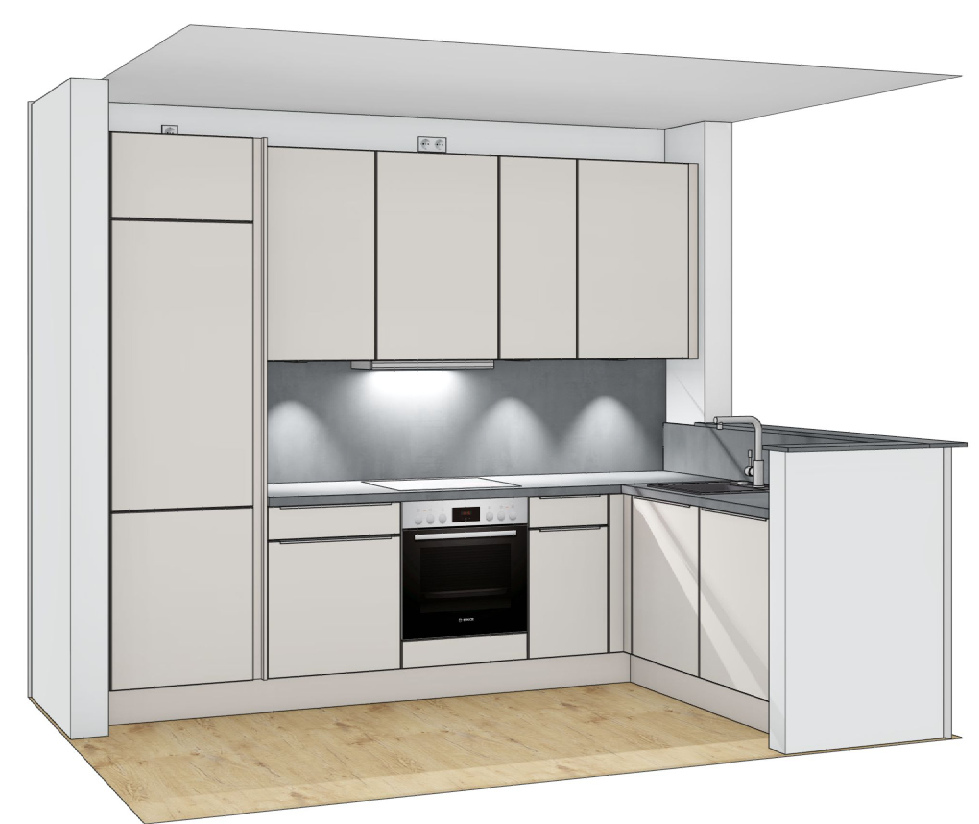
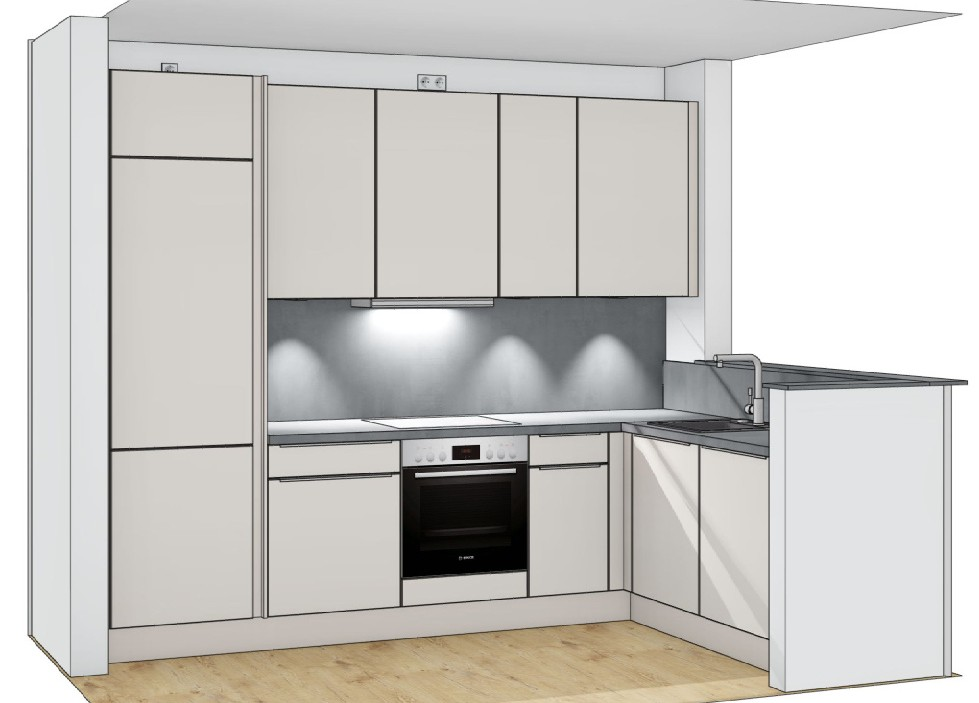
FIXES

diff --git a/frontend/prisma/seed.js b/frontend/prisma/seed.js
@@ -1914,11 +1914,11 @@ const AB_110140_ITEMS = [
 const AB_110510_ITEMS = [
   defaultOvenHob({ catalogArticleNumber: "A-EH923640E + 9EC744100C", infoText: "Built-in oven + ceramic cooktop", sortOrder: 10, widthMm: 600 }),
   defaultWorktop({ sortOrder: 20 }),
-  defaultSinkBase({ code: "SINK-BASE-AB110510-DEFAULT", componentKey: "sink-base", sortOrder: 30, widthMm: 400, depthMm: 600 }),
+  defaultSinkBase({ code: "SINK-BASE-AB110510-DEFAULT", name: "Sink Lower Cabinet", nameDe: "Spülenunterschrank", componentKey: "sink-base", sortOrder: 30, widthMm: 1100, heightMm: 878, depthMm: 600, articleNumber: "SPEB110", infoText: "Included SPEB110 sink cabinet" }),
   { itemType: ItemType.COMPONENT, code: "REF-AB110510-KGCN388140E", name: REFRIGERATOR_CATALOG_NAME_EN, nameDe: REFRIGERATOR_CATALOG_NAME_DE, price: "579.00", heightMm: 1810, iconKey: "tall_refrigerator", colorKey: "black", componentKey: "refrigerator", sortOrder: 40, infoText: "Fridge-freezer, 181 cm", articleNumber: "OL-KGCN388140E" },
-  { itemType: ItemType.COMPONENT, code: "CAB-BASE-AB110510-DEFAULT-LEFT", name: "Included base cabinet", nameDe: "Inklusiver Unterschrank", price: "0.00", widthMm: 450, depthMm: 600, iconKey: "drawer_base_two", colorKey: "#f0a500", componentKey: "base-module-1", sortOrder: 50, isLocked: true, infoText: "Included with the default kitchen configuration" },
-  { itemType: ItemType.COMPONENT, code: "CAB-BASE-AB110510-DEFAULT-CORNER", name: "Included base cabinet", nameDe: "Inklusiver Unterschrank", price: blendePrice("UPEF65", 1), widthMm: 400, depthMm: 600, iconKey: "drawer_base_two", colorKey: "#ffbf00", componentKey: "base-module-2", sortOrder: 60, isLocked: true, infoText: "Included cabinet with UPEF65 corner filler panel", blendeCode: "UPEF65", blendeLabel: "UPEF65 Corner filler panel", blendePrice: blendePrice("UPEF65", 1) },
-  { itemType: ItemType.COMPONENT, code: "CAB-BASE-AB110510-DEFAULT-SINK-RUN", name: "Included base cabinet", nameDe: "Inklusiver Unterschrank", price: blendePrice("UPK20", 1), widthMm: 400, depthMm: 600, iconKey: "drawer_base_two", colorKey: "#f0a500", componentKey: "base-module-3", sortOrder: 70, isLocked: true, infoText: "Included cabinet with UPK20 filler panel", blendeCode: "UPK20", blendeLabel: "UPK20 20 cm", blendePrice: blendePrice("UPK20", 1) },
+  { itemType: ItemType.COMPONENT, code: "CAB-BASE-AB110510-DEFAULT-LEFT", name: "Lower Cabinet 40 cm", nameDe: "Unterschrank 40 cm", price: "0.00", widthMm: 400, heightMm: 878, depthMm: 600, iconKey: "base_cabinet_plain", colorKey: "#f0a500", componentKey: "base-module-1", sortOrder: 50, isLocked: true, infoText: "Included U40 lower cabinet to the left of the oven", articleNumber: "U40", useCatalogArticle: false, preserveName: true },
+  { itemType: ItemType.COMPONENT, code: "CAB-BASE-AB110510-DEFAULT-CORNER", name: "Lower Cabinet 45 cm", nameDe: "Unterschrank 45 cm", price: blendePrice("UPEF65", 1), widthMm: 450, heightMm: 878, depthMm: 600, iconKey: "base_cabinet_plain", colorKey: "#ffbf00", componentKey: "base-module-2", sortOrder: 60, isLocked: true, infoText: "Included U45 lower cabinet with UPEF65 corner filler panel", articleNumber: "U45", useCatalogArticle: false, preserveName: true, blendeCode: "UPEF65", blendeLabel: "UPEF65 Corner filler panel", blendePrice: blendePrice("UPEF65", 1) },
+  { itemType: ItemType.COMPONENT, code: "CAB-BASE-AB110510-DEFAULT-SINK-RUN", name: "Lower Cabinet with Drawer 50 cm", nameDe: "Unterschrank mit Schublade 50 cm", price: blendePrice("UPK20", 1), widthMm: 500, heightMm: 878, depthMm: 600, iconKey: "drawer_base_two", colorKey: "#f0a500", componentKey: "base-module-3", sortOrder: 70, isLocked: true, infoText: "Included US50 lower cabinet with drawer and UPK20 filler panel", articleNumber: "US50", preserveName: true, blendeCode: "UPK20", blendeLabel: "UPK20 20 cm", blendePrice: blendePrice("UPK20", 1) },
   { itemType: ItemType.COMPONENT, code: "CAB-WALL-AB110510-H4502", name: "Wall Cabinet", nameDe: "Oberschrank", price: "139.00", widthMm: 450, heightMm: 720, depthMm: 340, iconKey: "wall_cabinet_plain", colorKey: "#00ffbf", componentKey: "wall-cabinet-1", sortOrder: 80, infoText: "H4502 wall cabinet, 45 cm", articleNumber: "H4502" },
   { itemType: ItemType.COMPONENT, code: "CAB-HOOD-AB110510-600", name: HOOD_WALL_CABINET_CATALOG_NAME_EN, nameDe: HOOD_WALL_CABINET_CATALOG_NAME_DE, price: "349.00", widthMm: 600, heightMm: 720, depthMm: 340, iconKey: "hood_wall_cabinet", colorKey: "#394c00", componentKey: "wall-cabinet-2", sortOrder: 90, infoText: "HD6002 cabinet, flat pull-out hood and FWK124 filter", articleNumber: "FH664621E + FWK124 + HD6002" },
   { itemType: ItemType.COMPONENT, code: "HOOD-AB110510-FH664621E", name: "FH664621E Extractor Hood", price: "349.00", widthMm: 599, heightMm: 173, depthMm: 303, iconKey: "extractor_hood", colorKey: "#394c00", componentKey: "extractor-hood", sortOrder: 92, infoText: "Flat pull-out hood + cabinet + filter, 60 cm", articleNumber: "FH664621E + FWK124 + HD6002", isActive: false },
@@ -2006,7 +2006,7 @@ const AB_105815_ITEMS = AB_105811_ITEMS.map((item) => ({
 // Supplier schedule codes are retained for display while catalogArticleNumber links
 // each row to the shared catalog identity used by the Burger program price list.
 const BURGER_103898_ITEMS = [
-  defaultOvenHob({ sortOrder: 10 }),
+  defaultOvenHob({ catalogArticleNumber: "A-EH923640E + 9EC744100C", infoText: "Built-in oven + ceramic cooktop", sortOrder: 10, widthMm: 600 }),
   defaultWorktop({ sortOrder: 20 }),
   { itemType: ItemType.COMPONENT, code: "SINK-BASE-BURGER103898-600", name: DEFAULT_SINK_BASE_CATALOG_NAME_EN, nameDe: DEFAULT_SINK_BASE_CATALOG_NAME_DE, price: "0.00", widthMm: 600, iconKey: "sink_base", colorKey: "springgreen", componentKey: "sink-base", sortOrder: 30, isLocked: true, infoText: DEFAULT_SINK_BASE_CATALOG_INFO_TEXT },
   { itemType: ItemType.COMPONENT, code: "REF-BURGER103898-KGCN388140E", name: REFRIGERATOR_CATALOG_NAME_EN, nameDe: REFRIGERATOR_CATALOG_NAME_DE, price: "579.00", heightMm: 1810, iconKey: "tall_refrigerator", colorKey: "black", componentKey: "refrigerator", sortOrder: 40, infoText: "Fridge-freezer, 181 cm", articleNumber: "OL-KGCN388140E" },
@@ -3448,11 +3448,13 @@ async function main() {
       const item = applyDefaultCatalogItem(rawItem);
       seededItemCodes.push(item.code);
       const itemCode = String(item.code || "").trim().toUpperCase();
-      const catalogArticleNumber = item.catalogArticleNumber || (item.isActive === false
-        && itemCode.startsWith("HOOD-")
-        && String(item.articleNumber || "").trim() === "FH 664 621 E"
-          ? "FH664621E + FWK124 + HD6002"
-          : String(item.articleNumber || "").trim());
+      const catalogArticleNumber = item.useCatalogArticle === false
+        ? ""
+        : item.catalogArticleNumber || (item.isActive === false
+          && itemCode.startsWith("HOOD-")
+          && String(item.articleNumber || "").trim() === "FH 664 621 E"
+            ? "FH664621E + FWK124 + HD6002"
+            : String(item.articleNumber || "").trim());
       const catalogArticle = catalogArticleNumber
         ? catalogArticleByNumber.get(catalogArticleNumber)
         : null;
@@ -3480,8 +3482,8 @@ async function main() {
       const resolvedHeightMm = pickCatalogDimension(catalogDims?.heightMm, item.heightMm);
       const resolvedDepthMm = pickCatalogDimension(catalogDims?.depthMm, item.depthMm);
       const itemForName = { ...item, widthMm: resolvedWidthMm };
-      const cabinetWidthName = getCabinetWidthDisplayName(itemForName);
-      const cabinetWidthNameDe = getCabinetWidthDisplayName(itemForName, "de");
+      const cabinetWidthName = item.preserveName ? "" : getCabinetWidthDisplayName(itemForName);
+      const cabinetWidthNameDe = item.preserveName ? "" : getCabinetWidthDisplayName(itemForName, "de");
       const isDishwasherItem = itemCode.startsWith("DISH-")
         || item.iconKey === "dishwasher_base";
       const isRefrigeratorItem = itemCode.startsWith("REF-")
@@ -3545,11 +3547,15 @@ async function main() {
           || catalogArticle?.articleNumber
           || (isStandaloneCatalogBlende ? catalogBlende?.code : item.articleNumber)
           || null,
-        name: catalogArticle?.name
-          || (isStandaloneCatalogBlende ? catalogBlende?.name : itemName),
-        nameDe: catalogArticle?.nameDe
-          || (isStandaloneCatalogBlende ? catalogBlende?.nameDe : itemNameDe)
-          || null,
+        name: item.preserveName
+          ? itemName
+          : catalogArticle?.name
+            || (isStandaloneCatalogBlende ? catalogBlende?.name : itemName),
+        nameDe: item.preserveName
+          ? itemNameDe
+          : catalogArticle?.nameDe
+            || (isStandaloneCatalogBlende ? catalogBlende?.nameDe : itemNameDe)
+            || null,
         price: isStandaloneCatalogBlende && catalogBlende ? catalogBlende.price : item.price,
         widthMm: resolvedWidthMm,
         heightMm: resolvedHeightMm,

diff --git a/frontend/test/ab-110510-kitchen.test.js b/frontend/test/ab-110510-kitchen.test.js
@@ -71,7 +71,47 @@ test("AB 110510 preserves six DEFAULT rows and the corrected Excel schedule", ()
   }
   assert.match(block, /CAB-BASE-AB110510-DEFAULT-CORNER[^\n]+blendeCode: "UPEF65"/);
   assert.match(block, /CAB-BASE-AB110510-DEFAULT-SINK-RUN[^\n]+blendeCode: "UPK20"/);
+  assert.match(block, /code: "SINK-BASE-AB110510-DEFAULT"[^\n]+name: "Sink Lower Cabinet"[^\n]+widthMm: 1100[^\n]+articleNumber: "SPEB110"/);
+  assert.match(block, /code: "CAB-BASE-AB110510-DEFAULT-LEFT"[^\n]+name: "Lower Cabinet 40 cm"[^\n]+widthMm: 400[^\n]+componentKey: "base-module-1"[^\n]+articleNumber: "U40"[^\n]+useCatalogArticle: false[^\n]+preserveName: true/);
+  assert.match(block, /code: "CAB-BASE-AB110510-DEFAULT-CORNER"[^\n]+name: "Lower Cabinet 45 cm"[^\n]+widthMm: 450[^\n]+componentKey: "base-module-2"[^\n]+articleNumber: "U45"[^\n]+useCatalogArticle: false[^\n]+preserveName: true[^\n]+blendeCode: "UPEF65"/);
+  assert.match(block, /code: "CAB-BASE-AB110510-DEFAULT-SINK-RUN"[^\n]+name: "Lower Cabinet with Drawer 50 cm"[^\n]+widthMm: 500[^\n]+componentKey: "base-module-3"[^\n]+articleNumber: "US50"[^\n]+preserveName: true[^\n]+blendeCode: "UPK20"/);
   assert.match(block, /CAB-WALL-AB110510-H6002-HPK2002[^\n]+articlePriceWithBlende\("H6002", "HPK2002", 1\)[^\n]+blendeCode: "HPK2002"/);
+});
+
+test("AB 110510 exposes SPEB110, U40, U45, and US50 in ASC", () => {
+  const items = [
+    { itemType: "COMPONENT", code: "SINK-BASE-AB110510-DEFAULT", name: "Sink Lower Cabinet", articleNumber: "SPEB110", componentKey: "sink-base", widthMm: 1100, isLocked: true },
+    { itemType: "COMPONENT", code: "CAB-BASE-AB110510-DEFAULT-LEFT", name: "Lower Cabinet 40 cm", articleNumber: "U40", componentKey: "base-module-1", widthMm: 400, isLocked: true },
+    { itemType: "COMPONENT", code: "CAB-BASE-AB110510-DEFAULT-CORNER", name: "Lower Cabinet 45 cm", articleNumber: "U45", componentKey: "base-module-2", widthMm: 450, isLocked: true, blendeCode: "UPEF65", blendeLabel: "UPEF65 Corner filler panel" },
+    { itemType: "COMPONENT", code: "CAB-BASE-AB110510-DEFAULT-SINK-RUN", name: "Lower Cabinet with Drawer 50 cm", articleNumber: "US50", componentKey: "base-module-3", widthMm: 500, isLocked: true, blendeCode: "UPK20", blendeLabel: "UPK20 20 cm" },
+  ];
+  const selection = buildServiceClaimSelectableComponents({
+    kitchen: { items },
+    kitchenConfig: { components: items },
+    kitchenSlug: slug,
+    claimParts: [{
+      partKey: "sink-cabinet",
+      name: "Sink Lower Cabinet",
+      articleCode: "SPEB110",
+      sourceKitchenItemCode: "SINK-BASE-AB110510-DEFAULT",
+      sourceComponentKey: "sink-base",
+    }],
+  });
+
+  const articleBySourceKey = Object.fromEntries(
+    selection.selectableComponents
+      .filter((entry) => (
+        entry.claimPartKey !== "blende"
+        && ["sink-base", "base-module-1", "base-module-2", "base-module-3"].includes(entry.sourceComponentKey || entry.componentKey)
+      ))
+      .map((entry) => [entry.sourceComponentKey || entry.componentKey, entry.articleCode]),
+  );
+  assert.deepEqual(articleBySourceKey, {
+    "sink-base": "SPEB110",
+    "base-module-1": "U40",
+    "base-module-2": "U45",
+    "base-module-3": "US50",
+  });
 });
 
 test("AB 110510 maps Excel callouts and links the complete hood package", () => {

diff --git a/frontend/test/burger-103898-kitchen.test.js b/frontend/test/burger-103898-kitchen.test.js
@@ -139,10 +139,22 @@ test("Burger 103898 seeds a separate Burger program kitchen and contract", () =>
     ),
     "utf8",
   );
+  const ovenMigration = readFileSync(
+    new URL(
+      "../prisma/migrations/20260910190000_link_burger103898_to_a_eh923640e/migration.sql",
+      import.meta.url,
+    ),
+    "utf8",
+  );
   assert.match(seed, /slug: "burger-103898"[\s\S]*?kitchenCode: "103 898"[\s\S]*?programmId: "BURGER CINDY"[\s\S]*?items: BURGER_103898_ITEMS/);
   assert.match(seed, /contractNumber: "670103898", kitchenSlug: "burger-103898"/);
   assert.match(seed, /contractNumber: "111103898", kitchenSlug: "burger-103898"/);
   assert.match(seed, /programmId: kitchen\.programmId \|\| DEFAULT_KITCHEN_PROGRAMM_ID/);
+  assert.match(seed, /const BURGER_103898_ITEMS = \[[\s\S]*?defaultOvenHob\(\{ catalogArticleNumber: "A-EH923640E \+ 9EC744100C"/);
+  assert.match(ovenMigration, /kitchen\."slug" = 'burger-103898'/);
+  assert.match(ovenMigration, /article\."articleNumber" = 'A-EH923640E \+ 9EC744100C'/);
+  assert.match(ovenMigration, /"articleCode" = 'A-EH923640E'/);
+  assert.match(ovenMigration, /a-eh923640e-product-info\.pdf/);
   assert.match(seed, /CAB-BASE-BURGER103898-US50[\s\S]*?price: "247\.00"[\s\S]*?isLocked: true/);
   assert.match(seed, /CAB-BASE-BURGER103898-US60-UPE65[\s\S]*?price: "349\.00"[\s\S]*?isLocked: true[\s\S]*?blendeCode: "UPE65"[\s\S]*?blendePrice: "79\.00"/);
   assert.match(seed, /CAB-BASE-BURGER103898-US30[\s\S]*?price: "222\.00"[\s\S]*?isLocked: true/);
